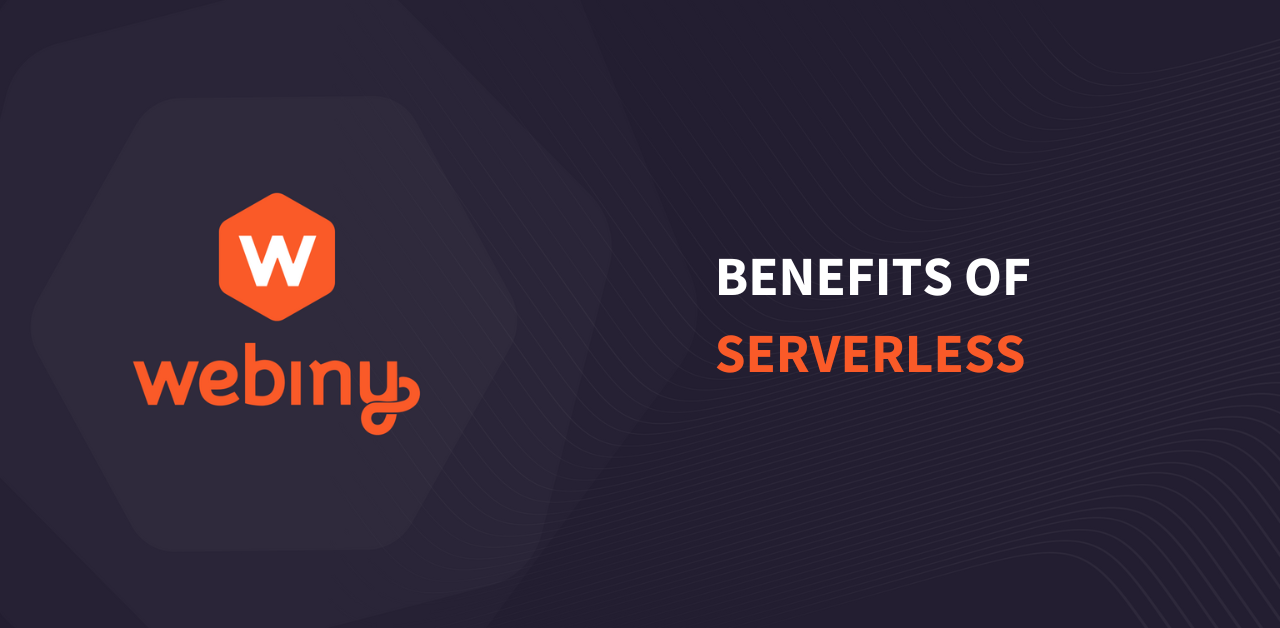
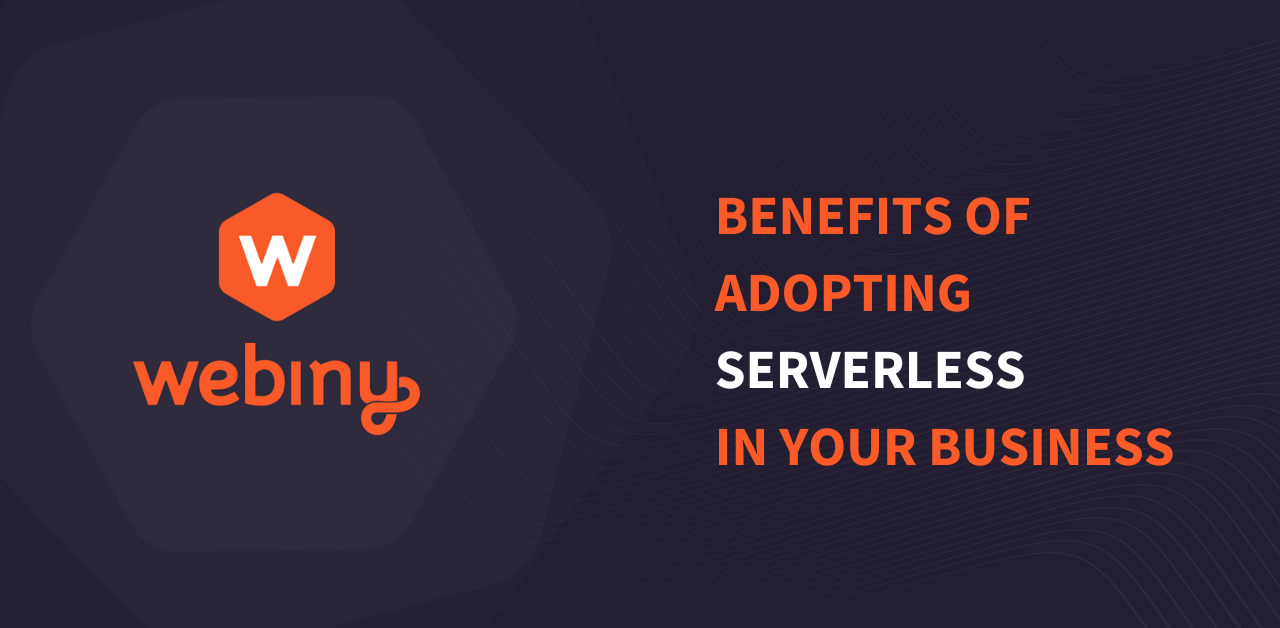
fix: update blog cover & homepage video aspect ratio (#210)
* fix(blogposts): update title on blog cover

* fix(homepage): fix product video aspect ratio

Changed region(s): [[0.5625, 0.3025, 0.8125, 0.6354], [0.5625, 0.6656, 0.9375, 0.7564]]

diff --git a/src/components/new-homepage/product-overview/product-overview.styled.js b/src/components/new-homepage/product-overview/product-overview.styled.js
@@ -203,7 +203,7 @@ export const ProductOverviewVideo = styled("div")(
         boxSizing: "border-box",
         borderRadius: "10px",
         backgroundColor: "#f9d9cf",
-        aspectRatio: "16 / 9",
+        aspectRatio: "15.70 / 9",
 
         "> iframe": {
             width: "100%",
